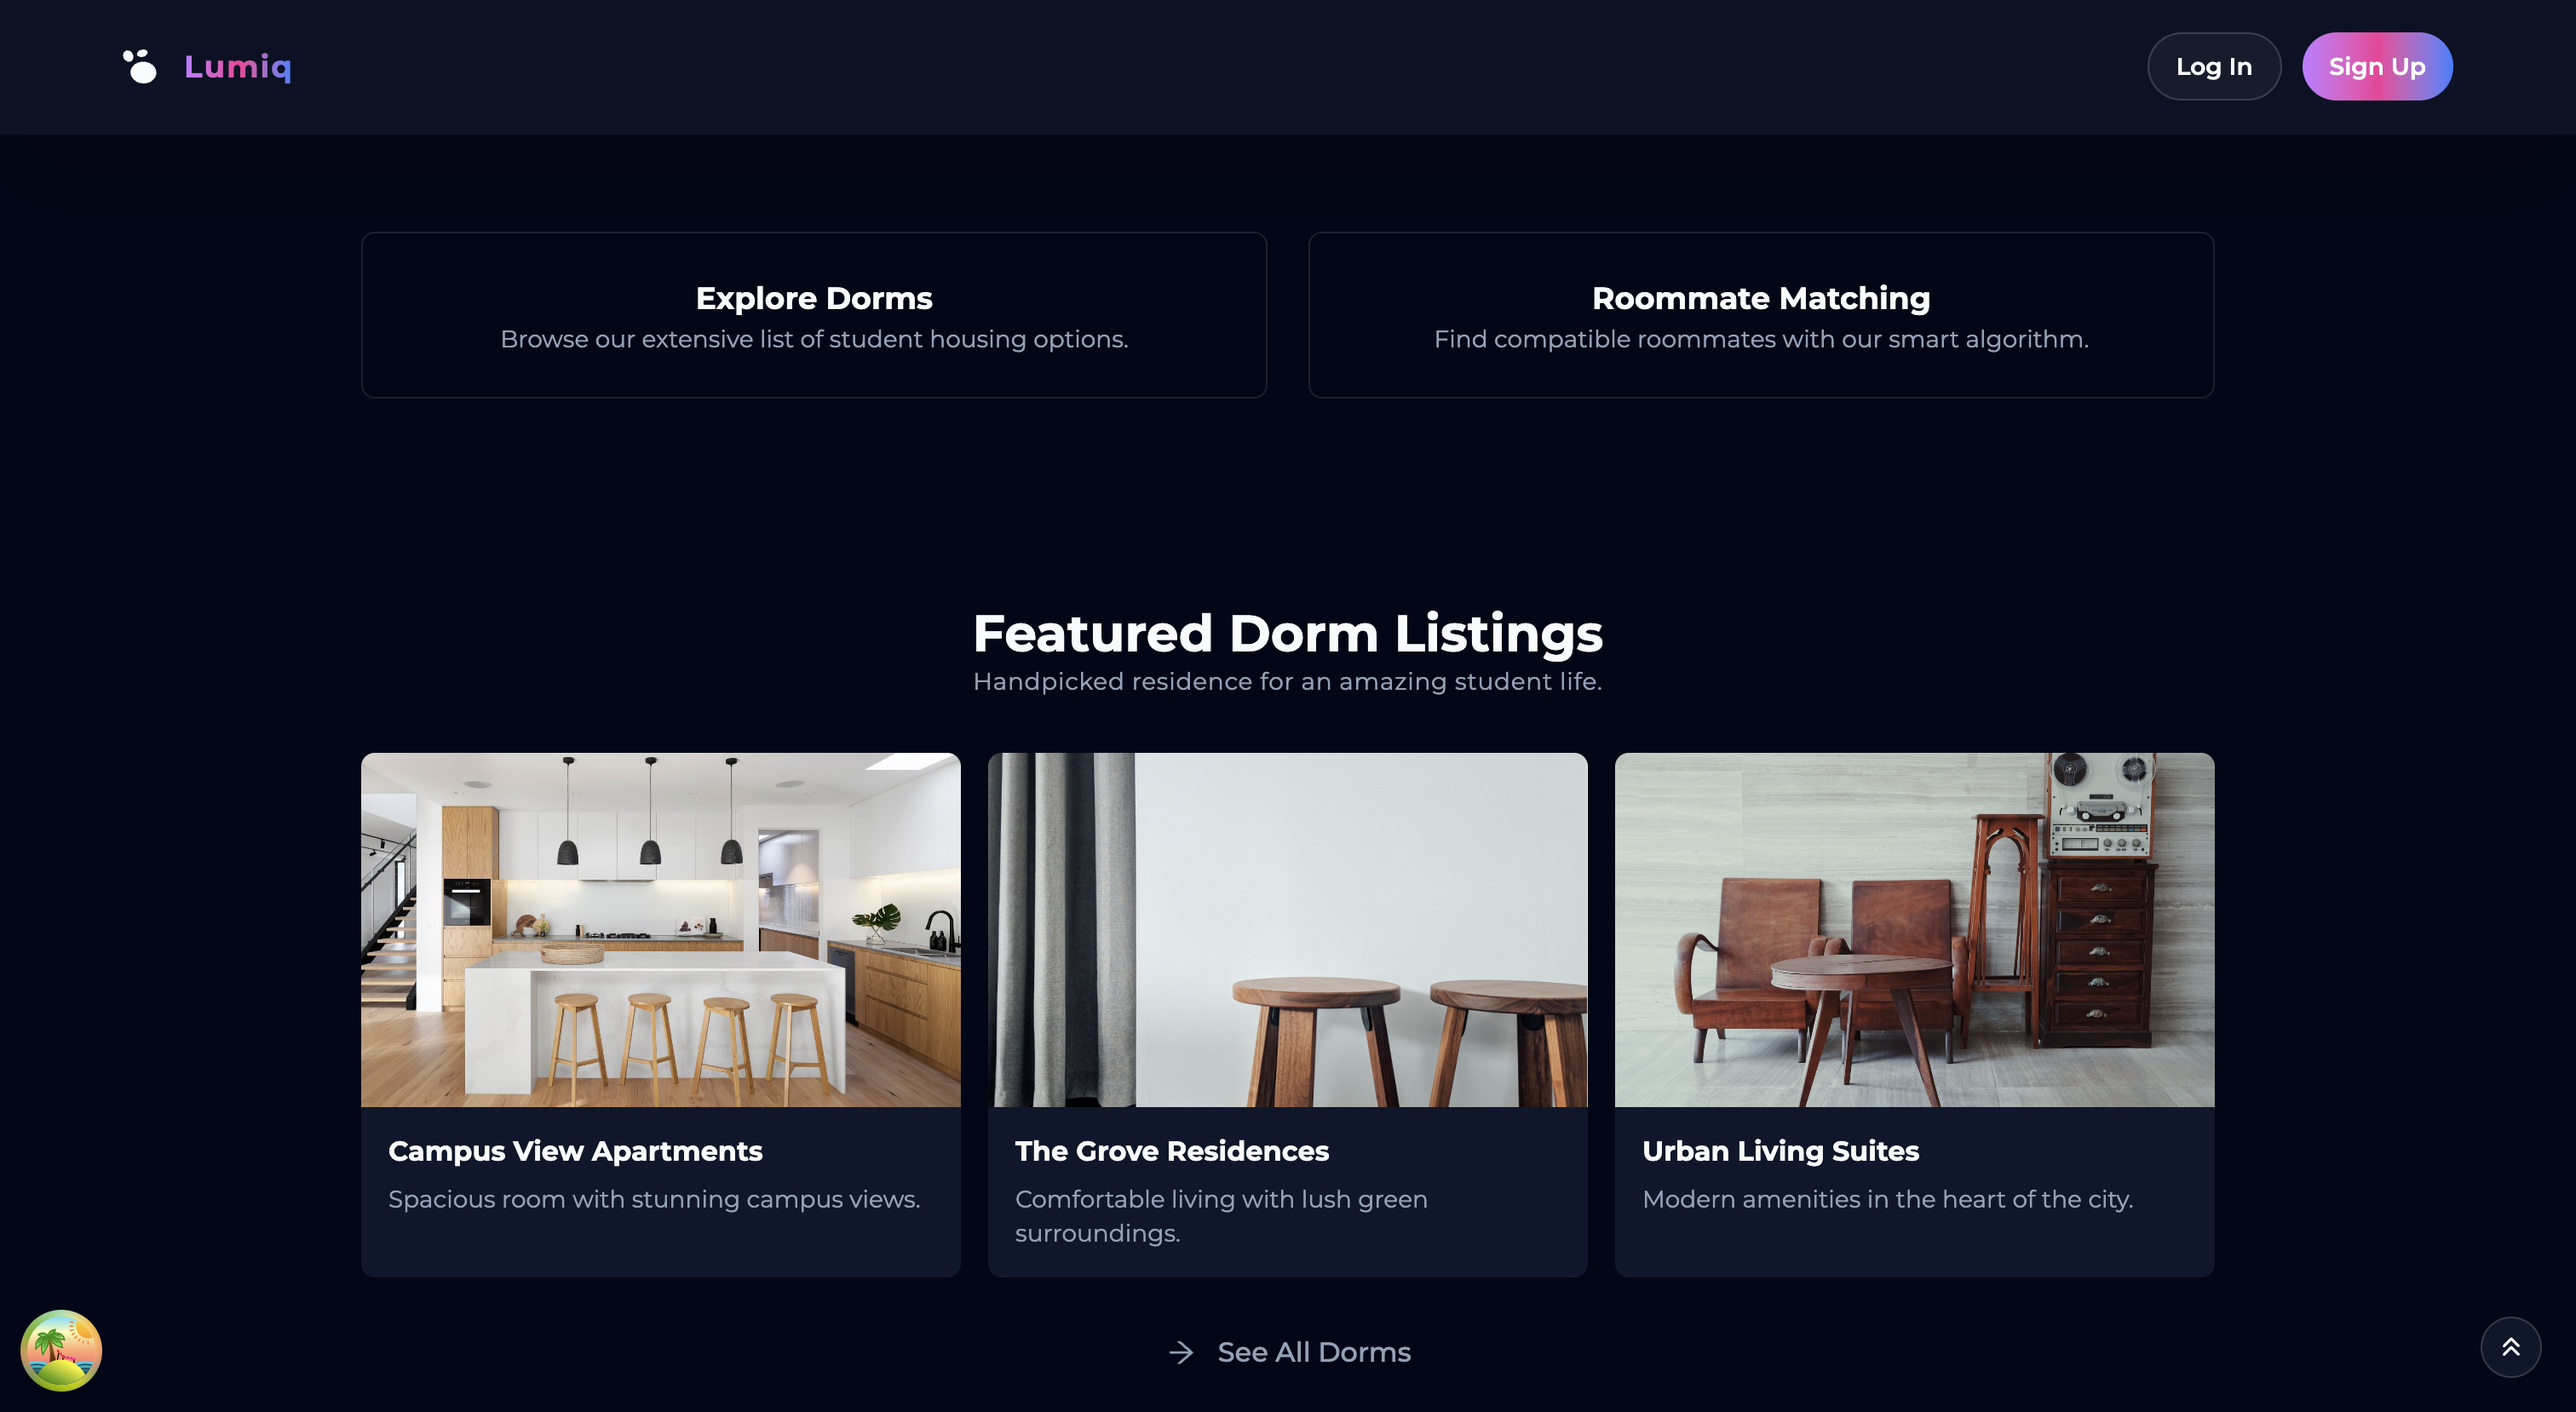
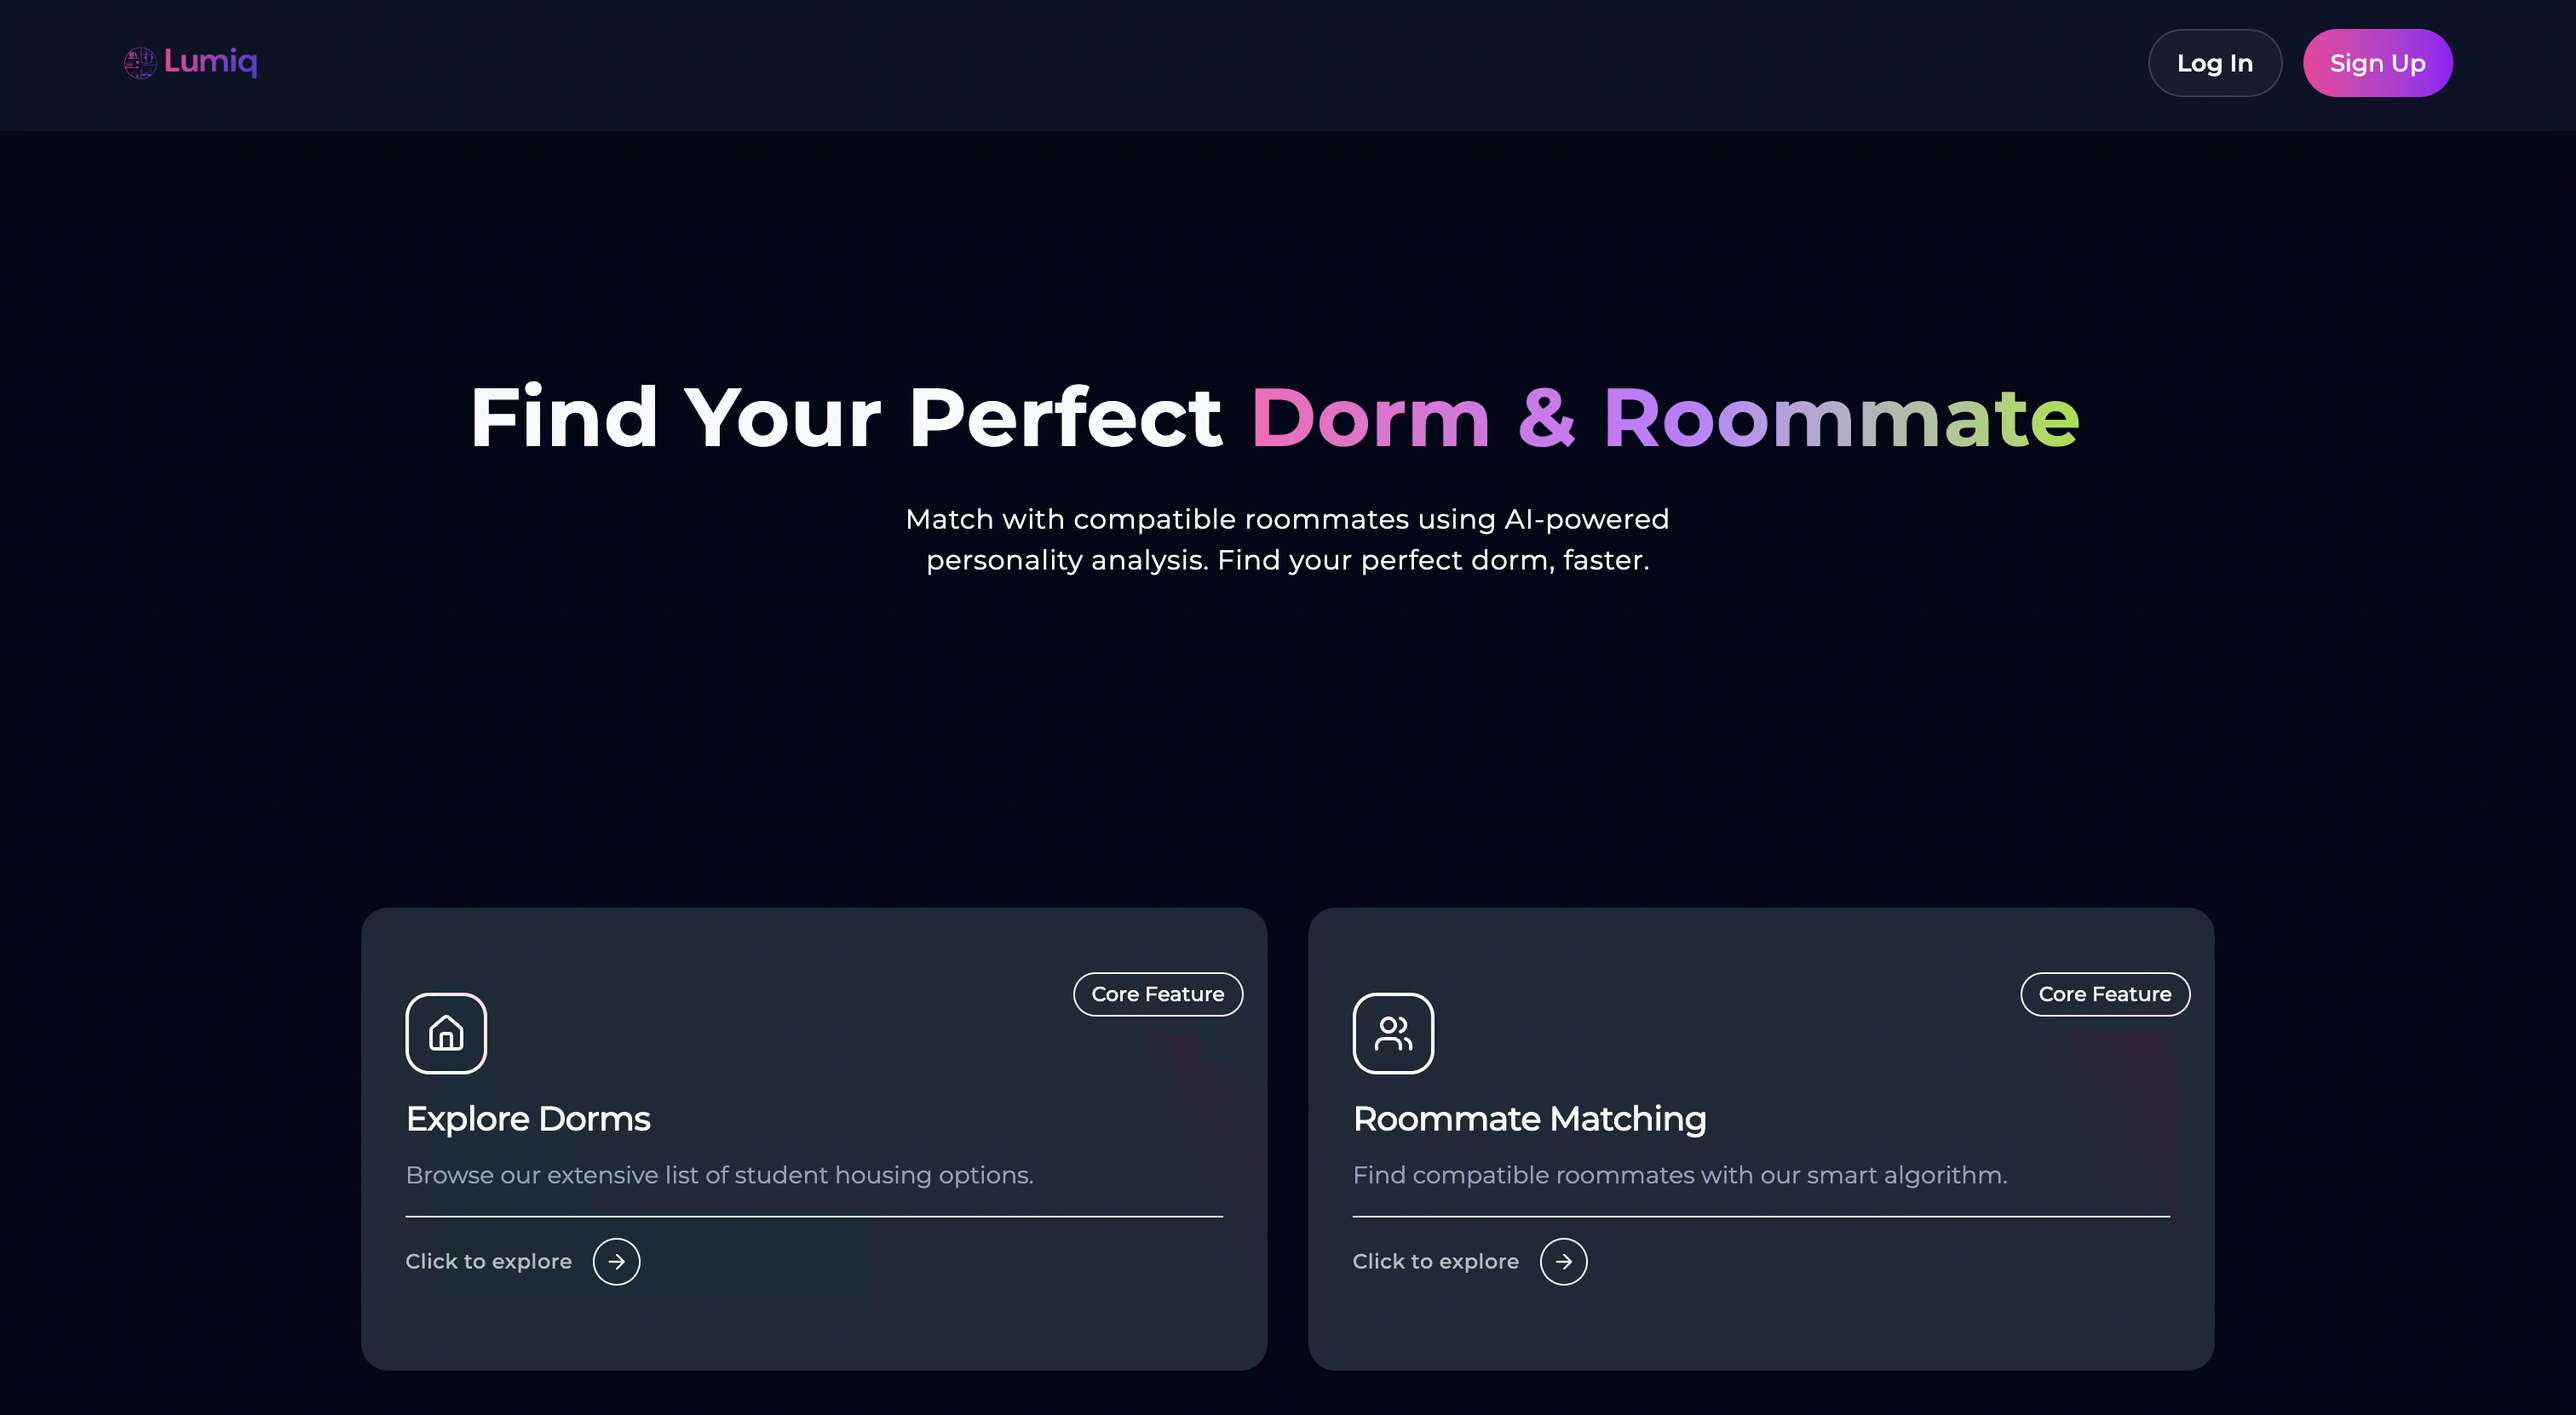
add projects

diff --git a/src/components/ProjectsExperience.jsx b/src/components/ProjectsExperience.jsx
@@ -11,6 +11,8 @@ const oonjaiPdf = '/Oonjai.pdf';
 const lab = '/OWASP_lab.pdf';
 const report = '/Report.pdf';
 import lumiqImage from '../assets/Lumiq.png';
+import standupImage from '../assets/Standup.png';
+import nexlogImage from '../assets/Nexlog.png';
 
 const ProjectsExperience = () => {
   const projects = [
@@ -39,12 +41,28 @@ const ProjectsExperience = () => {
       codeLink: "https://github.com/SanMine/Oonjai_app"
     },
     {
-      title: "Lumiq – Smart Dormitory Booking & Living Platform",
-      description: "No-code management system built with Google Sheets and n8n automation. Developed a full-stack platform for room booking, online payments, and intelligent roommate matching. Implemented online deposits, digital contracts, and multilingual support.",
+      title: "Lumiq – Smart Dormitory Booking & Roommate Matching Platform",
+      description: "LUMIQ is a comprehensive web application that revolutionizes the dormitory search and roommate matching experience for students and young professionals. It combines advanced dorm search functionalities with AI-powered personality-based roommate matching, real-time chat, price calculation tools, and comprehensive admin management capabilities.",
       image: lumiqImage,
-      technologies: ["HTML", "Tailwind CSS", "Javascript", "Node.js", "MySQL", "n8n"],
-      liveLink: null,
+      technologies: ["React (Vite)", "Tailwind CSS", "TypeScript", "Node.js (Express)", "MongoDB", "Groq API"],
+      liveLink: "https://www.lumiq-thailand.com/",
       codeLink: "https://github.com/SanMine/Lumiq"
+    },
+    {
+      title: "StandUp – AI-Powered Career Development Platform",
+      description: "StandUp is a comprehensive career development platform and dual-sided marketplace that connects students with internships and employers with talent. Beyond a standard job board, it leverages Google Gemini AI for intelligent job matching and resume analysis, while supporting students with tools for portfolio building, application tracking, mentor booking, and learning resources.",
+      image: standupImage,
+      technologies: ["React (Vite)", "Tailwind CSS", "JavaScript", "Node.js (Express)", "MongoDB", "Groq API"],
+      liveLink: "https://www.careerstandup.com/",
+      codeLink: "https://github.com/SanMine/StandUP"
+    },
+    {
+      title: "Nexlog - Log management System",
+      description: "Nexlog is a next-generation log management and security intelligence platform designed to centralize, normalize, and analyze security data. Built as a multi-tenant SaaS application, it allows different organizations to securely store and view their own log data within a unified system. ",
+      image: nexlogImage,
+      technologies: ["React (Vite)", "Tailwind CSS", "TypeScript", "Node.js (Express)", "MongoDB"],
+      liveLink: "https://nexlog-six.vercel.app/",
+      codeLink: "https://github.com/SanMine/log-management-system-intern"
     }
   ];
 
